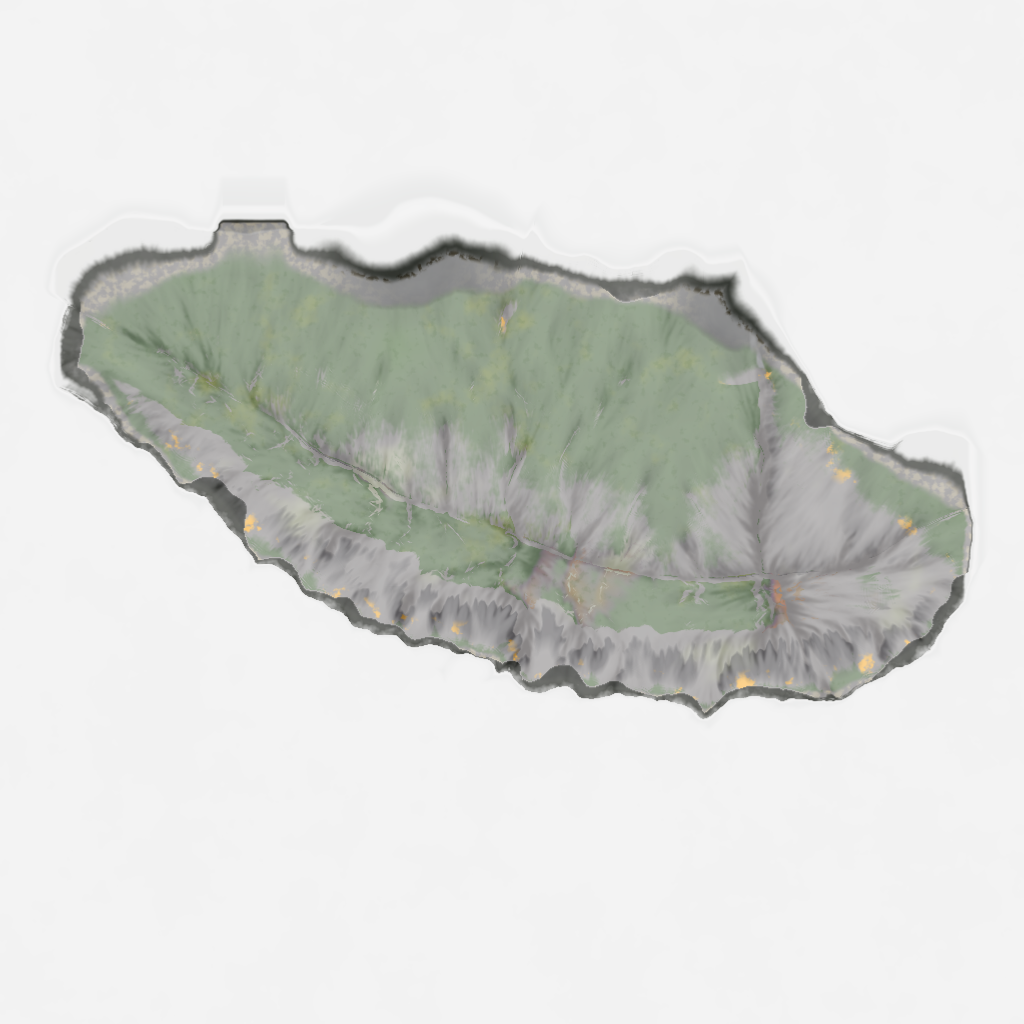
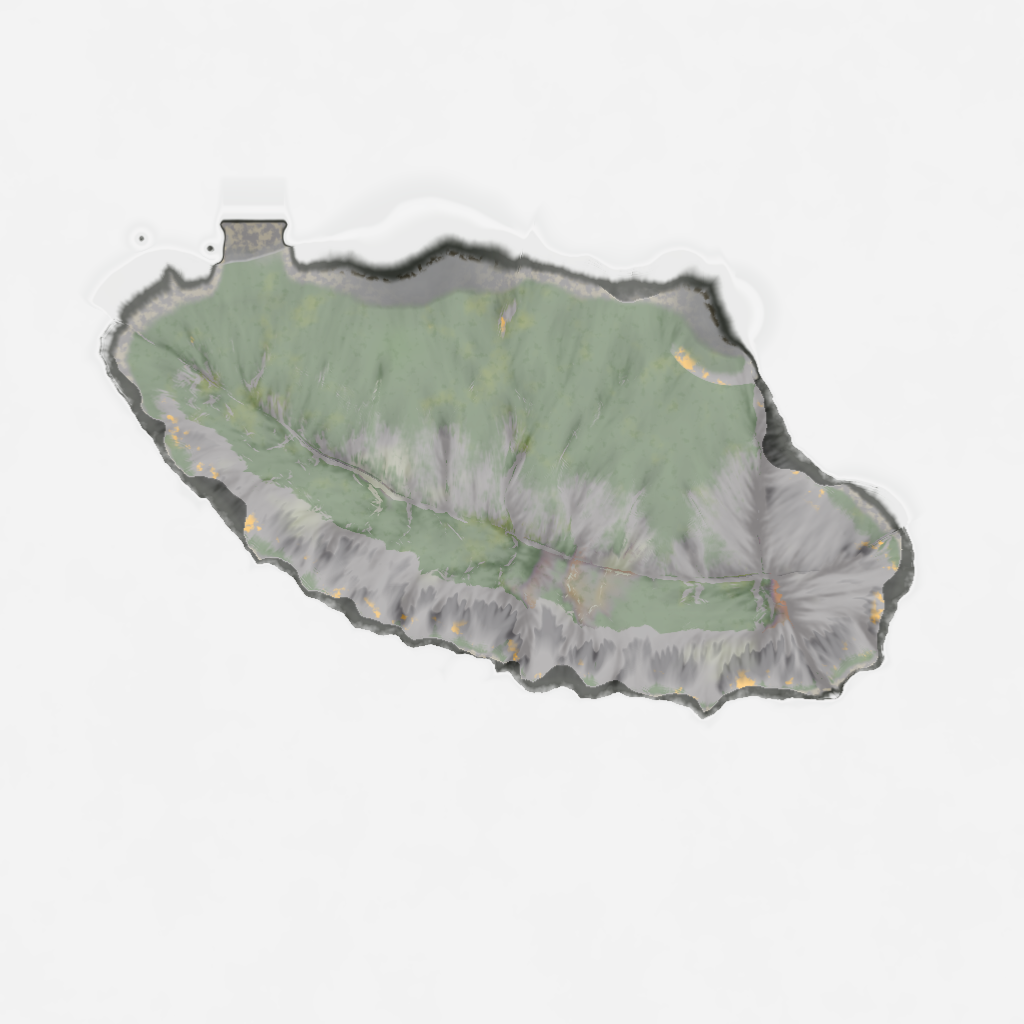
fix(drift): Ridgeback and Dunes fit their tiles
The generator drives the last 26 m before a tile's edge down to the tile
floor. Inside that ramp the ground is not the recipe's. Ridgeback's east
point came within 9 m of the edge in the recipe and its west point
within 21 m, so the ramp cut both into a scarp parallel to the tile's
edge: 57 degrees at the waterline at the east point against 8 on the
rest of the coast. Dunes' foreshore, which the beach profile carries
34 m out from the waterline, ran into the ramp under water. Found by the
code review, by measuring the committed map; the island-wide median of
TheCoastIsAShoreNotARamp could not see it.

- Ridgeback's spine ends 55 m short of the tile at both points; Dunes is
  117 m along its length, not 124, and its spit is drawn in.
- shaping.fits_tile measures how near the shore (ground less than 3 m
  under the sea) comes to each edge, and pipeline.generate raises when
  that is inside the ramp.
- DriftIslandSplatCoverage.EveryShoreFinishesBeforeTheTilesBorderRamp
  checks the shipped maps: clearances are now 37, 39, 27, 39, 27 and
  68 m.
- The same suite's cooked-cell test compares the staged files' contents,
  as its comment said, not their sizes.

Stamped: Ridgeback's landfall radius 200 -> 182 m, Dunes' 166 -> 155 m,
their discovery boxes, the header's distances. The landing surveys as
before (deck edge 1.40 m, hook -3.19 m, track -3.52 m). The six Ridgeback
goldens are rebased, and the before/after composites rebuilt from new
[…]

Changed region(s): [[0.6562, 0.25, 0.9688, 0.6875], [0.0312, 0.2188, 0.3438, 0.5]]

diff --git a/OloEngine/tests/Terrain/DriftIslandSplatCoverageTest.cpp b/OloEngine/tests/Terrain/DriftIslandSplatCoverageTest.cpp
@@ -283,6 +283,41 @@ namespace OloEngine::Tests
         }
     }
 
+    // An island fits its tile. The generator drives the last 26 m before a
+    // tile's edge down to the tile floor, so that the tile ends in sea and not
+    // in a wall; inside that ramp the ground is not the recipe's any more. A
+    // point or a foreshore that reaches into it ends in a scarp parallel to the
+    // tile's edge instead of in its own shore: Ridgeback's east point did, 57
+    // degrees at the waterline against 8 on the rest of its coast, and the
+    // island-wide median of TheCoastIsAShoreNotARamp could not see it. "Shore"
+    // is ground less than 3 m under the sea: what a boat's crew can see.
+    TEST_F(DriftIslandSplatCoverage, EveryShoreFinishesBeforeTheTilesBorderRamp)
+    {
+        constexpr f32 kBorderRamp = 26.0f; // shaping.BORDER_RAMP in tools/drift-islands
+        constexpr f32 kShoreDepth = -3.0f; // shaping.SHORE_DEPTH
+        for (const Island& isl : s_Islands)
+        {
+            const u32 n = isl.Resolution;
+            const f32 metresPerSample = isl.WorldSize / static_cast<f32>(n - 1);
+            f32 nearest = isl.WorldSize;
+            u32 shore = 0;
+            for (u32 z = 0; z < n; ++z)
+            {
+                for (u32 x = 0; x < n; ++x)
+                {
+                    if (isl.MetresAboveSea(static_cast<sizet>(z) * n + x) <= kShoreDepth)
+                        continue;
+                    ++shore;
+                    const u32 samplesIn = std::min(std::min(x, n - 1 - x), std::min(z, n - 1 - z));
+                    nearest = std::min(nearest, static_cast<f32>(samplesIn) * metresPerSample);
+                }
+            }
+            ASSERT_GT(shore, 0u) << isl.Name << " has no ground near the surface at all";
+            EXPECT_GE(nearest, kBorderRamp)
+                << isl.Name << ": its shore comes within " << nearest << " m of the tile's edge, inside the border ramp";
+        }
+    }
+
     // DriftWeatherDirector.lua arms a leg 45 m outside
     //   coast = (IslandFalloffRadius + 0.5) * 0.5 * WorldSizeX
     // from the tile centre. The scene stamper writes the radius from the map's
@@ -480,8 +515,14 @@ namespace OloEngine::Tests
             ASSERT_FALSE(file.empty()) << "an island leaves one of its maps unnamed";
             std::error_code ec;
             ASSERT_TRUE(fs::exists(package / file, ec)) << file.generic_string() << " was not staged into the package";
-            EXPECT_EQ(fs::file_size(package / file, ec), fs::file_size(project / file, ec))
-                << file.generic_string() << " was staged as a different file";
+            const auto bytes = [](const fs::path& path)
+            {
+                std::ifstream in(path, std::ios::binary);
+                return std::vector<char>(std::istreambuf_iterator<char>(in), std::istreambuf_iterator<char>());
+            };
+            const std::vector<char> staged = bytes(package / file);
+            EXPECT_FALSE(staged.empty()) << file.generic_string() << " was staged empty";
+            EXPECT_TRUE(staged == bytes(project / file)) << file.generic_string() << " was staged as a different file";
         }
         for (const Island& isl : s_Islands)
         {

diff --git a/tools/drift-islands/olo_islands/recipes.py b/tools/drift-islands/olo_islands/recipes.py
@@ -51,15 +51,17 @@ def ridgeback(x, z, seed):
     xw, zw = f.warp(x, z, seed, 120.0, 13.0)
     xw, zw = f.warp(xw, zw, seed + 5, 38.0, 4.0)
     # (x, z, crest height, half-width south, half-width north)
+    # The two ends stop 55 m short of the tile's edge: the points, their rock platforms and the
+    # first of the deep water all have to fit before the border ramp begins (shaping.fits_tile).
     spine = [
-        (52.0, 136.0, 5.0, 40.0, 28.0),
+        (68.0, 142.0, 5.0, 32.0, 24.0),
         (104.0, 164.0, 30.0, 84.0, 48.0),
         (165.0, 200.0, 57.0, 112.0, 54.0),
         (222.0, 224.0, 71.0, 124.0, 54.0),
         (270.0, 236.0, 58.0, 116.0, 50.0),
         (318.0, 240.0, 84.0, 112.0, 48.0),
-        (358.0, 230.0, 42.0, 66.0, 40.0),
-        (384.0, 214.0, 6.0, 34.0, 26.0),
+        (342.0, 233.0, 44.0, 62.0, 38.0),
+        (356.0, 225.0, 7.0, 24.0, 20.0),
     ]
     dist, side, crest, w_south, w_north = f.polyline_field(xw, zw, spine)
     north = side > 0.0
@@ -301,7 +303,9 @@ def mesa(x, z, seed):
 def dunes(x, z, seed):
     """Sand on a low platform: a foredune behind the windward beach, a big parabolic dune,
     machair in its lee, and a spit hooking round a shallow lagoon."""
-    u, r, _ = _blob(x, z, 180.0, 205.0, 124.0, 86.0, -14.0, seed, 110.0, 11.0)
+    # 117 m along its length, not more: the windward and lee foreshores run 34 m out from the
+    # waterline, and both have to end before the tile's border ramp (shaping.fits_tile).
+    u, r, _ = _blob(x, z, 180.0, 205.0, 117.0, 86.0, -14.0, seed, 110.0, 11.0)
     inland = np.maximum(1.0 - u, 0.0) * r
     platform = np.minimum(inland * 0.12, 3.2 + 0.012 * inland)
     wx, wz = 0.989, 0.148  # the scene's wind (Drift.olo WindSettings.Direction)
@@ -333,7 +337,7 @@ def dunes(x, z, seed):
     land = platform + np.maximum(field, big) + fore
     h = np.where(u < 1.0, land, _sea((u - 1.0) * r, 30.0))
     # The spit: a low sand ridge from the south-east corner, hooking back west.
-    spit = [(262.0, 152.0, 2.0), (298.0, 120.0, 1.8), (306.0, 88.0, 1.6), (286.0, 66.0, 1.4), (258.0, 62.0, 1.0)]
+    spit = [(262.0, 152.0, 2.0), (296.0, 124.0, 1.8), (300.0, 98.0, 1.6), (284.0, 80.0, 1.4), (258.0, 76.0, 1.0)]
     dist, _, top = f.polyline_field(x, z, spit)
     ridge = np.where(dist < 15.0, top * (1.0 - (dist / 15.0) ** 2), _sea(dist - 15.0, 16.0) * 0.6)
     h = np.maximum(h, ridge)

diff --git a/tools/drift-islands/olo_islands/pipeline.py b/tools/drift-islands/olo_islands/pipeline.py
@@ -35,6 +35,11 @@ def generate(name, n=RESOLUTION, verbose=True):
     h = s.apply_rock_platform(h, cell, aux["rock_shore"], seed + 12, x, z)
     if sites is not None:
         h = sites(h, x, z)
+    clearance, side = s.fits_tile(h, x, z, size)
+    if clearance < s.BORDER_RAMP:
+        raise ValueError(f"{name}: its shore comes within {clearance:.1f} m of the tile's {side} edge, inside the "
+                         f"{s.BORDER_RAMP:.0f} m border ramp. Draw the island in or give it a larger tile; the ramp "
+                         "would cut that shore into a scarp")
     h = s.apply_border(h, x, z, size, cell)
 
     top = float(h.max())
@@ -49,19 +54,19 @@ def generate(name, n=RESOLUTION, verbose=True):
         ring = (d > 0.0) & (d < 6.0)
         print(f"{name}: peak {top:.1f} m, land {100.0 * land.mean():.1f}% of tile, "
               f"median slope within 6 m of the water {np.median(slope[ring]):.1f} deg, "
-              f"coast radius {mean_coast_radius(h, size):.1f} m")
+              f"mean coast radius {mean_coast_radius(h, size):.1f} m, "
+              f"shore {clearance:.0f} m clear of the tile's {side} edge")
     return {"name": name, "h": h, "height01": height01, "splat0": splat0, "splat1": splat1, "macro": macro,
             "weights": weights, "size": size, "height_scale": height_scale, "cell": cell, "aux": aux,
             "flow": flow}
 
 
 def mean_coast_radius(h, size):
-    """Mean distance from the tile centre to the outermost land along 180 bearings.
-
-    DriftWeatherDirector.lua derives each island's landfall and departure rings from
-    (IslandFalloffRadius + 0.5) * 0.5 * WorldSizeX, so the scene restates this number as the
-    falloff radius that formula turns back into it.
-    """
+    """Mean distance from the tile centre to the outermost land along 180 bearings. Printed
+    for the reader, and not what the scene carries: DriftWeatherDirector.lua's landfall and
+    departure rings are stamped from scene.enclosing_radius, the radius that holds ALL of the
+    island, so a boat on any of its shores is inside the ring. On a long island that ring
+    stands well off the short sides (Ridgeback: 182 m against a 110 m south shore)."""
     n = h.shape[0]
     c = (n - 1) * 0.5
     radii = []

diff --git a/OloEngine/tests/Functional/Atmosphere/DriftLegWeatherAndSeaStateTest.cpp b/OloEngine/tests/Functional/Atmosphere/DriftLegWeatherAndSeaStateTest.cpp
@@ -75,15 +75,15 @@ namespace
     // and it is why the fixture now builds all six rather than the one it cares
     // about.
     constexpr f32 kIslandSize = 420.0f;
-    constexpr f32 kIslandFalloffRadius = 0.454f;
+    constexpr f32 kIslandFalloffRadius = 0.366f;
     constexpr glm::vec3 kIslandOrigin{ -210.0f, -24.0f, 70.0f };
     const glm::vec3 kIslandCentre{ kIslandOrigin.x + kIslandSize * 0.5f, 0.0f,
                                    kIslandOrigin.z + kIslandSize * 0.5f };
 
     // The script's own radii, derived the way it derives them: the coast is
     // (falloff radius + 0.5) x half the tile, landfall is 45 m outside that and
-    // departure 135 m outside it. For Ridgeback that is a 200 m coast (its
-    // farthest land), a 245 m landfall ring and a 335 m departure ring.
+    // departure 135 m outside it. For Ridgeback that is a 182 m coast (its
+    // farthest land), a 227 m landfall ring and a 317 m departure ring.
     constexpr f32 kCoast = (kIslandFalloffRadius + 0.5f) * 0.5f * kIslandSize;
     const glm::vec3 kOffshore{ kIslandCentre.x, 0.0f, kIslandCentre.z - (kCoast + 400.0f) };
     const glm::vec3 kAtIsland{ kIslandCentre.x, 0.0f, kIslandCentre.z - (kCoast + 10.0f) };
@@ -103,7 +103,7 @@ namespace
         { "Island - Mesa", { 320.0f, -24.0f, -140.0f }, 360.0f, 0.318f },
         { "Island - Atoll", { 130.0f, -24.0f, -680.0f }, 400.0f, 0.128f },
         { "Island - Stacks", { -480.0f, -24.0f, -670.0f }, 300.0f, 0.448f },
-        { "Island - Dunes", { -730.0f, -24.0f, -130.0f }, 380.0f, 0.375f },
+        { "Island - Dunes", { -730.0f, -24.0f, -130.0f }, 380.0f, 0.313f },
         { "Island - Sisters", { -290.0f, -24.0f, 530.0f }, 260.0f, 0.227f },
     } };
 

diff --git a/tools/drift-islands/olo_islands/shaping.py b/tools/drift-islands/olo_islands/shaping.py
@@ -62,7 +62,24 @@ def apply_rock_platform(h, cell, rock_shore, seed, x, z, width=8.0, level=0.6):
     return lerp(h, cut, np.clip(rock_shore, 0.0, 1.0) * (d > 0.0))
 
 
-def apply_border(h, x, z, size, cell, ramp=26.0):
+BORDER_RAMP = 26.0   # metres from the tile's edge over which apply_border takes the ground to BASE
+SHORE_DEPTH = -3.0   # ground above this is shore: land, a platform, a foreshore one can see
+
+
+def fits_tile(h, x, z, size):
+    """(metres, side) of the shore that comes nearest the tile's edge. An island fits its tile
+    when that is at least BORDER_RAMP: inside the ramp the ground is not the recipe's any more,
+    it is being driven down to the tile floor, and a point or a foreshore that reaches in ends
+    in a 50 degree scarp parallel to the tile's edge instead of in its own shore."""
+    shore = h > SHORE_DEPTH
+    nearest = (float("inf"), "none")
+    for side, distance in (("west", x), ("east", size - x), ("south", z), ("north", size - z)):
+        if shore.any():
+            nearest = min(nearest, (float(distance[shore].min()), side))
+    return nearest
+
+
+def apply_border(h, x, z, size, cell, ramp=BORDER_RAMP):
     """Drive the tile's rim to BASE exactly: the outermost samples, which sit ON the tile's
     edges, get weight 0."""
     edge = np.minimum(np.minimum(x, size - x), np.minimum(z, size - z))

diff --git a/docs/agent-rules/generated-island-height-maps-details.md b/docs/agent-rules/generated-island-height-maps-details.md
@@ -81,6 +81,17 @@ A map stores heights as 16 bits of `HeightScale`. A recipe whose summit reaches 
 range is clipped flat with no error anywhere, so `pipeline.generate` raises when the peak does not
 fit, and the test asserts the stored maximum is below 1.
 
+The border step drives the last 26 m before the tile's edge to the floor, and inside that ramp the
+ground is no longer the recipe's. An island has to finish before it. Ridgeback's east point did
+not: land came within 9 m of the edge in the recipe, and the ramp cut the point into a scarp
+parallel to the tile's edge, 57 degrees at the waterline against 8 on the rest of the coast. Dunes'
+foreshore, which a beach profile carries 34 m out from the waterline, ran into it under water.
+Nothing failed: the border was still exactly the floor, and the coast-slope test takes an
+island-wide median. `shaping.fits_tile` measures how near the shore (ground less than 3 m under
+the sea) comes to each edge, `pipeline.generate` raises when that is inside the ramp, and
+`EveryShoreFinishesBeforeTheTilesBorderRamp` checks the shipped maps. The code review found it by
+measuring the map; none of 246 captures had made it obvious.
+
 `HeightScale` also sets every foliage altitude band, which are metres above the tile floor: the
 sea is at 24.
 
@@ -157,6 +168,13 @@ estimated where a radial mask's waterline fell. A height map applies no mask, so
 measures the coast (the 99.5th percentile of the land's distance from the tile centre, so one
 awash rock does not set it) and stores the value that makes the formula return it. The component
 field carries nothing else on a height-map terrain.
+
+That radius holds ALL of the island, on purpose: a boat beached anywhere on it is inside the ring,
+which a mean radius would not give the ends of a long island. The price is on the long sides.
+Ridgeback's ring is 182 m and its south shore 110 m from the centre, so a boat sailing at that
+shore from the start line makes landfall about 115 m off the beach, where a disc island made it
+at 45. The generator prints the mean coast radius beside the stamped one so the difference is
+visible when a recipe changes.
 
 ## 11. Landmark sites
 
@@ -236,11 +254,19 @@ Two more followed from measuring in Play from the boat instead of from a parked 
    rim's shadow edge at 26.9 m, not 24. The rule compared a caster's quads with the size the pixel
    target ASKS the main view's triangles to be, and the main view cannot draw that coarsely: a
    node is 64 quads a side whatever its level, so its quads stop growing at the root node's. On
-   that map the root node draws 1 m quads and a chunk's coarsest mesh was 4 m. A height read for a
-   coarse vertex is a filtered one (it has to be, or a coarse node undersamples the relief), so a
-   caster four times blunter than the drawn ground is also lower at every rim, and its shadow
-   shorter. `TerrainShadowLod::CoarsestReceiverQuad` is the ceiling. It never binds on a map of 512
-   samples or more, which is why six 1024 px islands did not show it and a test terrain did.
+   that map (3 chunks a side) the root node draws 1 m quads and a chunk's coarsest mesh was 2.7 m.
+   A height read for a coarse vertex is a filtered one (it has to be, or a coarse node undersamples
+   the relief), so a caster that much blunter than the drawn ground is also lower at every rim, and
+   its shadow shorter. `TerrainShadowLod::CoarsestReceiverQuad` is the ceiling. A tile is
+   `ceil(resolution / 64)` chunks a side, so it never binds from 449 samples up, which is why six
+   1024 px islands did not show it and a test terrain did.
+6. **Tessellation off.** The code review of that test found the same fault by another road. A
+   terrain drawn without tessellation shows every vertex at its exact height at any distance, and
+   its chunk casters carry those heights too; the tile mesh has none of its own and reads filtered
+   ones. So only a tessellated terrain casts from the tile mesh. The test's third arm is that
+   terrain, and each arm now asserts how many casters the shadow pass was handed
+   (`Renderer3D::GetTerrainShadowCasterCountLastFrame`): one for the tile mesh, one per chunk
+   otherwise. Before that, the arm named "TileMesh" proved only that some coarse caster had cast.
 
 ## 14. The quadtree split on the wrong size
 

diff --git a/docs/agent-rules/generated-island-height-maps.md b/docs/agent-rules/generated-island-height-maps.md
@@ -6,7 +6,7 @@ Applies to: `tools/drift-islands/**`, the six `Island - *` entities in `OloEdito
 
 1. **Change an island by changing its recipe and re-running `python tools/drift-islands/build_islands.py --stamp-scene`.** The maps, each island's entity block in `Drift.olo` and the scene header's LAYOUT section are outputs; an edit made by hand is lost on the next run. [Details](generated-island-height-maps-details.md#1-the-scene-block-is-derived-data)
 2. **Shape an island as a landform in metres, then derive erosion, shore and materials from it; do not tune the runtime generator's knobs.** One radial mask over uniform noise gave six discs whose coast was a 45-60 degree ramp, whatever the seed. [Details](generated-island-height-maps-details.md#2-what-the-radial-mask-could-not-make)
-3. **Drive every border texel of a height map to exactly the tile floor, and keep the summit under the height scale.** `DriftIslandSplatCoverage.TheTileBorderIsTheSeabedFloorAndTheSummitFits` pins both on the shipped maps; the tool refuses a peak that does not fit. [Details](generated-island-height-maps-details.md#3-border-and-summit)
+3. **Drive every border texel of a height map to exactly the tile floor, keep the summit under the height scale, and finish every shore before the border ramp.** `DriftIslandSplatCoverage.TheTileBorderIsTheSeabedFloorAndTheSummitFits` and `EveryShoreFinishesBeforeTheTilesBorderRamp` pin them on the shipped maps; the tool refuses a peak or an island that does not fit. [Details](generated-island-height-maps-details.md#3-border-and-summit)
 4. **Pull a sand coast to a beach profile and give a rock coast a platform; check the slope at the waterline as a number.** A real foreshore is 5-10 degrees. `TheCoastIsAShoreNotARamp` bounds the median slope within 1.5 m above the sea. [Details](generated-island-height-maps-details.md#4-the-coast-is-shaped-not-left-over)
 5. **State ground albedo as linear reflectance, not as a display colour.** Grass reflects about a tenth of the light, wet basalt a twentieth, dry sand two fifths. A value picked from a colour picker is consumed as linear and renders pastel. [Details](generated-island-height-maps-details.md#5-albedo-is-physical)
 6. **Put colour that is bigger than a texture tile in the macro map, and keep the shared layer textures neutral.** Each layer's albedo mean is normalised; the island's rock and sand colour, tide band, lichen, bedding and damp gullies are macro texels. [Details](generated-island-height-maps-details.md#6-one-layer-library-six-islands)
